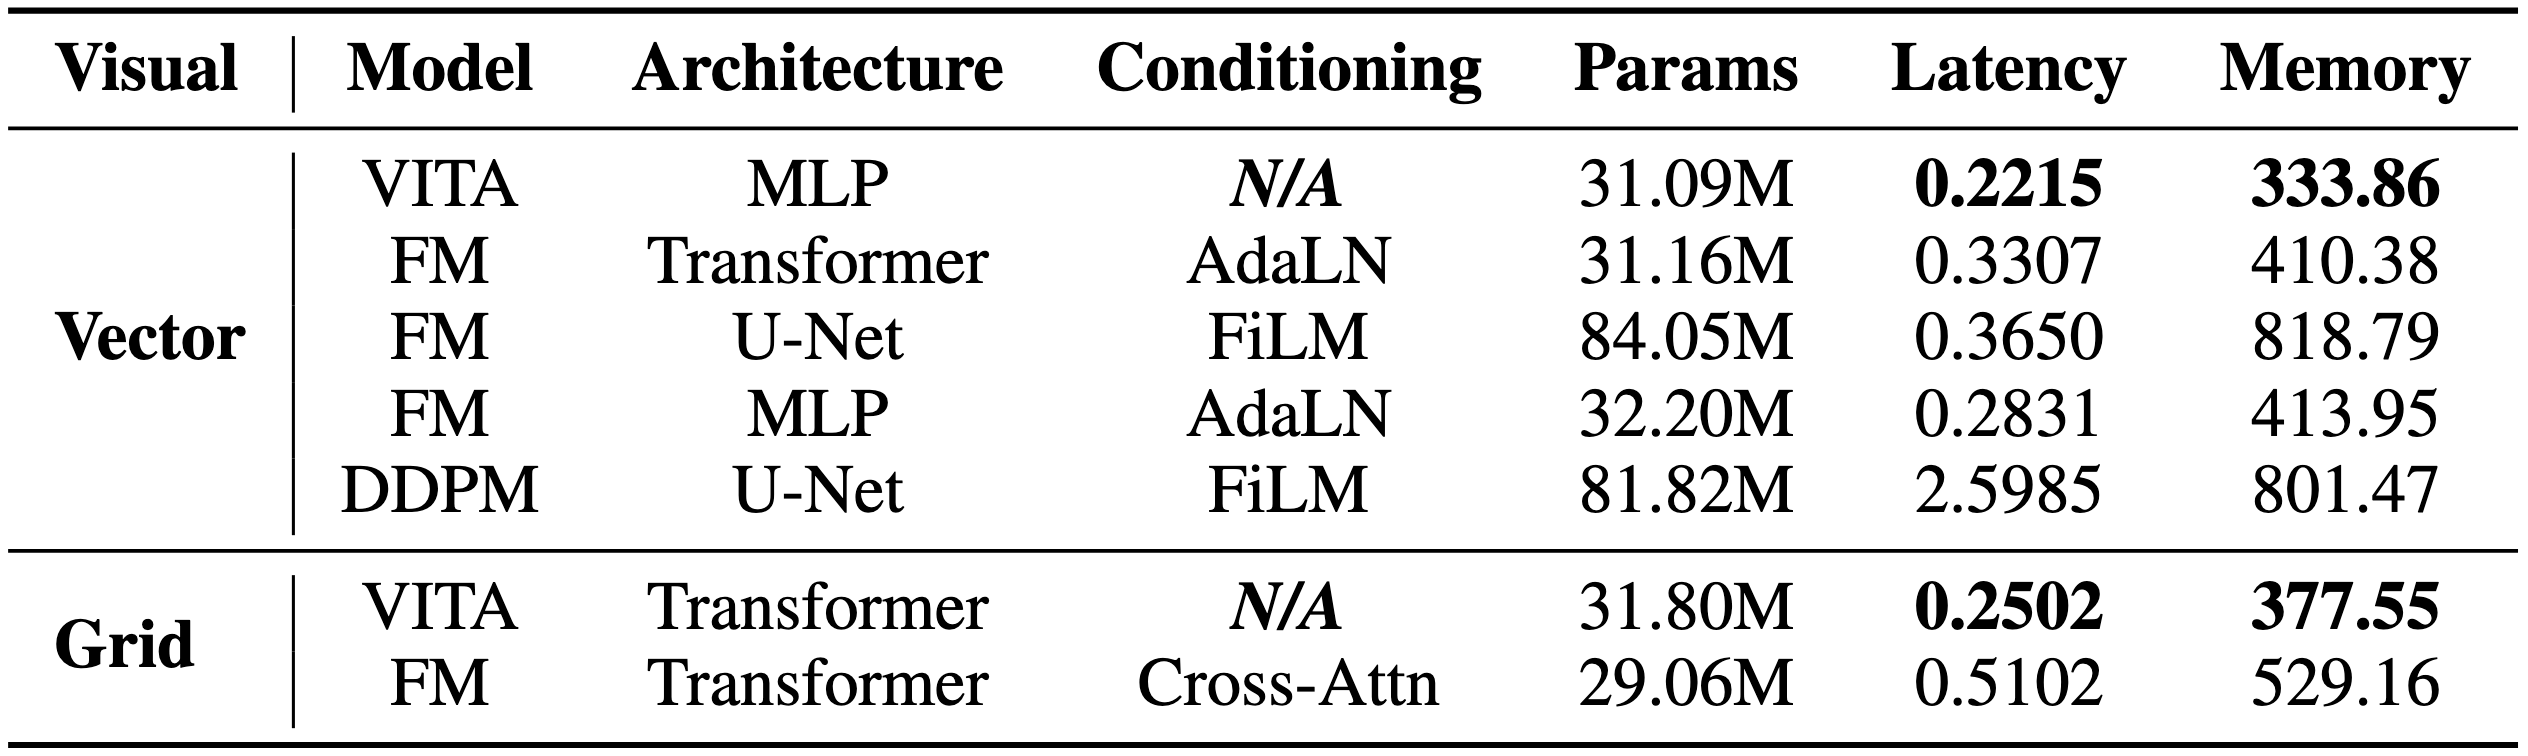
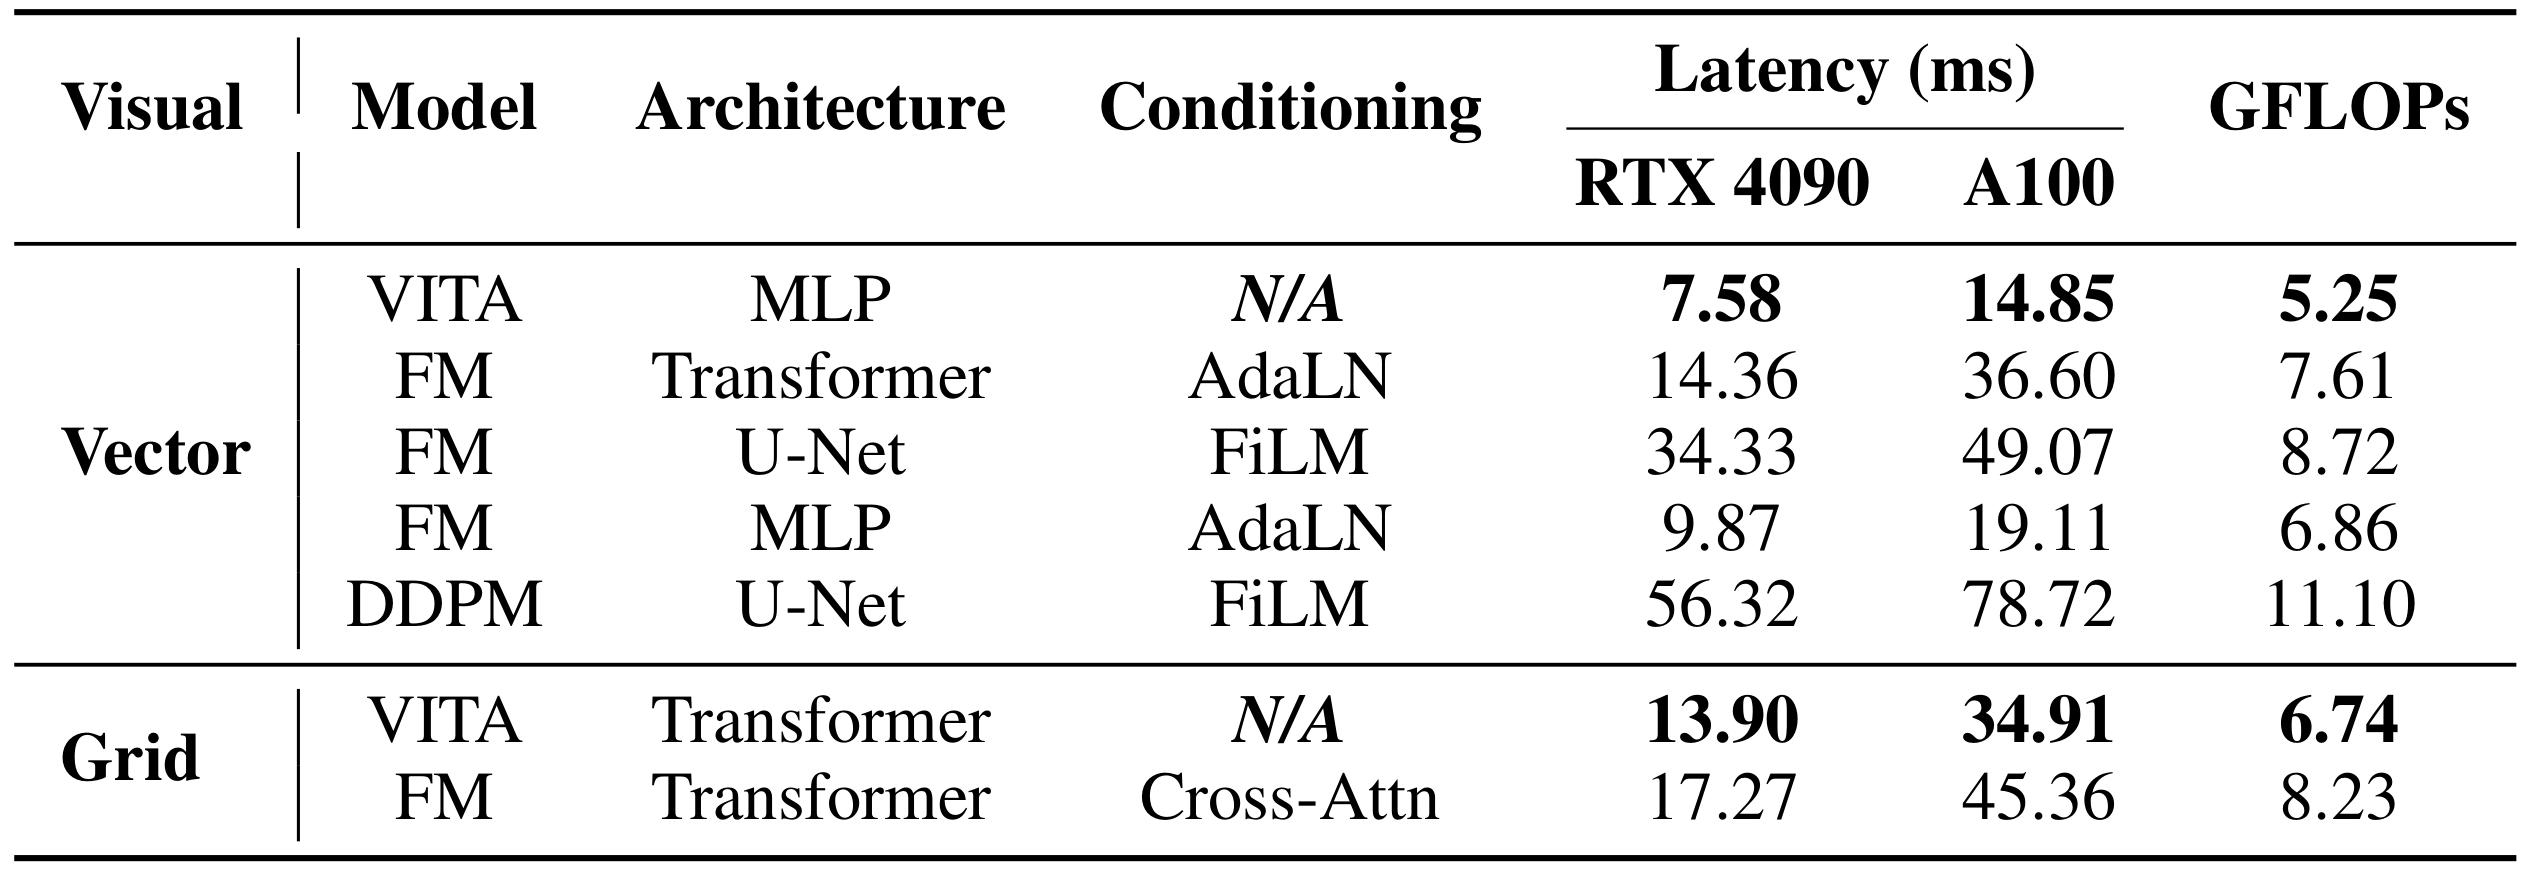
Update project-page efficiency results to the latest Table 1

diff --git a/index.html b/index.html
@@ -190,8 +190,8 @@
                     <figure class="performance-metric">
                         <figcaption><h3>Fast inference</h3></figcaption>
                         <canvas id="inference-canvas" role="img" aria-label="Two bars compare inference time. VITA is shorter than conventional flow matching with conditioning."></canvas>
-                        <a class="performance-speed" href="https://arxiv.org/abs/2507.13231v4" target="_blank" rel="noreferrer" aria-label="1.5 to 2 times faster inference compared with conventional methods with conditioning modules. VITA paper.">
-                            <strong>1.5×–2×</strong> faster <svg aria-hidden="true"><use href="#external"/></svg>
+                        <a class="performance-speed" href="https://arxiv.org/abs/2507.13231v4" target="_blank" rel="noreferrer" aria-label="1.9 times faster inference compared with conventional methods with conditioning modules. VITA paper.">
+                            <strong>1.9×</strong> faster <svg aria-hidden="true"><use href="#external"/></svg>
                         </a>
                     </figure>
                     <figure class="performance-metric">
@@ -246,7 +246,7 @@
                             on 9 simulation and 5 real-world tasks from ALOHA and Robomimic.
                             Despite its simplicity, VITA outperforms or matches
                             state-of-the-art policies, while speeding up inference
-                            by 1.5x to 2.3x. To our knowledge, VITA is the first
+                            by 1.9x. To our knowledge, VITA is the first
                             <span class="highlight-bold">MLP-only flow matching policy capable of solving complex
                                 bi-manual manipulation tasks like those in ALOHA benchmarks.</span>
                         </p>
@@ -413,20 +413,26 @@ the need to transport from an unstructured Gaussian prior to a structured action
             <div class="columns is-centered has-text-centered">
                 <div class="column is-full-width">
                     <h2 class="title is-3">Efficiency</h2>
-                    <img src="static/images/efficiency.png" class="interpolation-image"
-                        alt="Efficiency comparison of VITA against baseline policies" />
+                    <img src="static/images/efficiency.png?v=bs1" class="interpolation-image"
+                        alt="Table 1. Inference latency (ms/chunk) on the RTX 4090 and A100 at batch size 1, and compute (GFLOPs/chunk), for vector- and grid-based policies." />
                     <br />
                     <br />
 
                     <div class="content has-text-justified">
                         <p>
-                            VITA can achieve
+                            At batch size 1, MLP-based VITA is <span class="highlight-bold">1.9×</span> faster on the RTX 4090
+                            and <span class="highlight-bold">2.5×</span> faster on the A100 than transformer-based FM with AdaLN.
+                            Grid-based VITA is <span class="highlight-bold">1.2×</span> and <span class="highlight-bold">1.3×</span> faster
+                            than transformer-based FM with cross-attention on the same GPUs, respectively.
+                        </p>
+                        <p>
+                            For batched inference at batch size 128, VITA can achieve
                             <span class="highlight-bold">4,500 chunks/s</span> throughput with
                             <span class="highlight-bold">0.22 ms/chunk</span> inference time on a single NVIDIA 4090.
                             Compared with conventional methods,
                             VITA reduces inference latency by approximately
-                            <span class="cool-keyword">50% to 130%</span>, and peak memory usage by
-                            <span class="cool-keyword">18% to 27%</span>.
+                            <span class="cool-keyword">33% to 51%</span>, and peak memory usage by
+                            <span class="cool-keyword">18.6% to 28.7%</span>.
                         </p>
                     </div>
                 </div>

diff --git a/static/js/vita-performance.js b/static/js/vita-performance.js
@@ -77,9 +77,10 @@ function drawInference(context, frame) {
     context.setLineDash([]);
     stroke(context, t => [start, mix(top, bottom, t)], color(lavender, .38), scale);
 
+    const fmLength = .96;
     const bars = [
-        { y: .36, length: .57, from: color(gold, .94), to: color(rose, .91) },
-        { y: .64, length: .96, from: color(lavender, .66), to: color(lavender, .89) },
+        { y: .36, length: fmLength * (7.58 / 14.36), from: color(gold, .94), to: color(rose, .91) },
+        { y: .64, length: fmLength, from: color(lavender, .66), to: color(lavender, .89) },
     ];
 
     for (const { y, length, from, to } of bars) {
